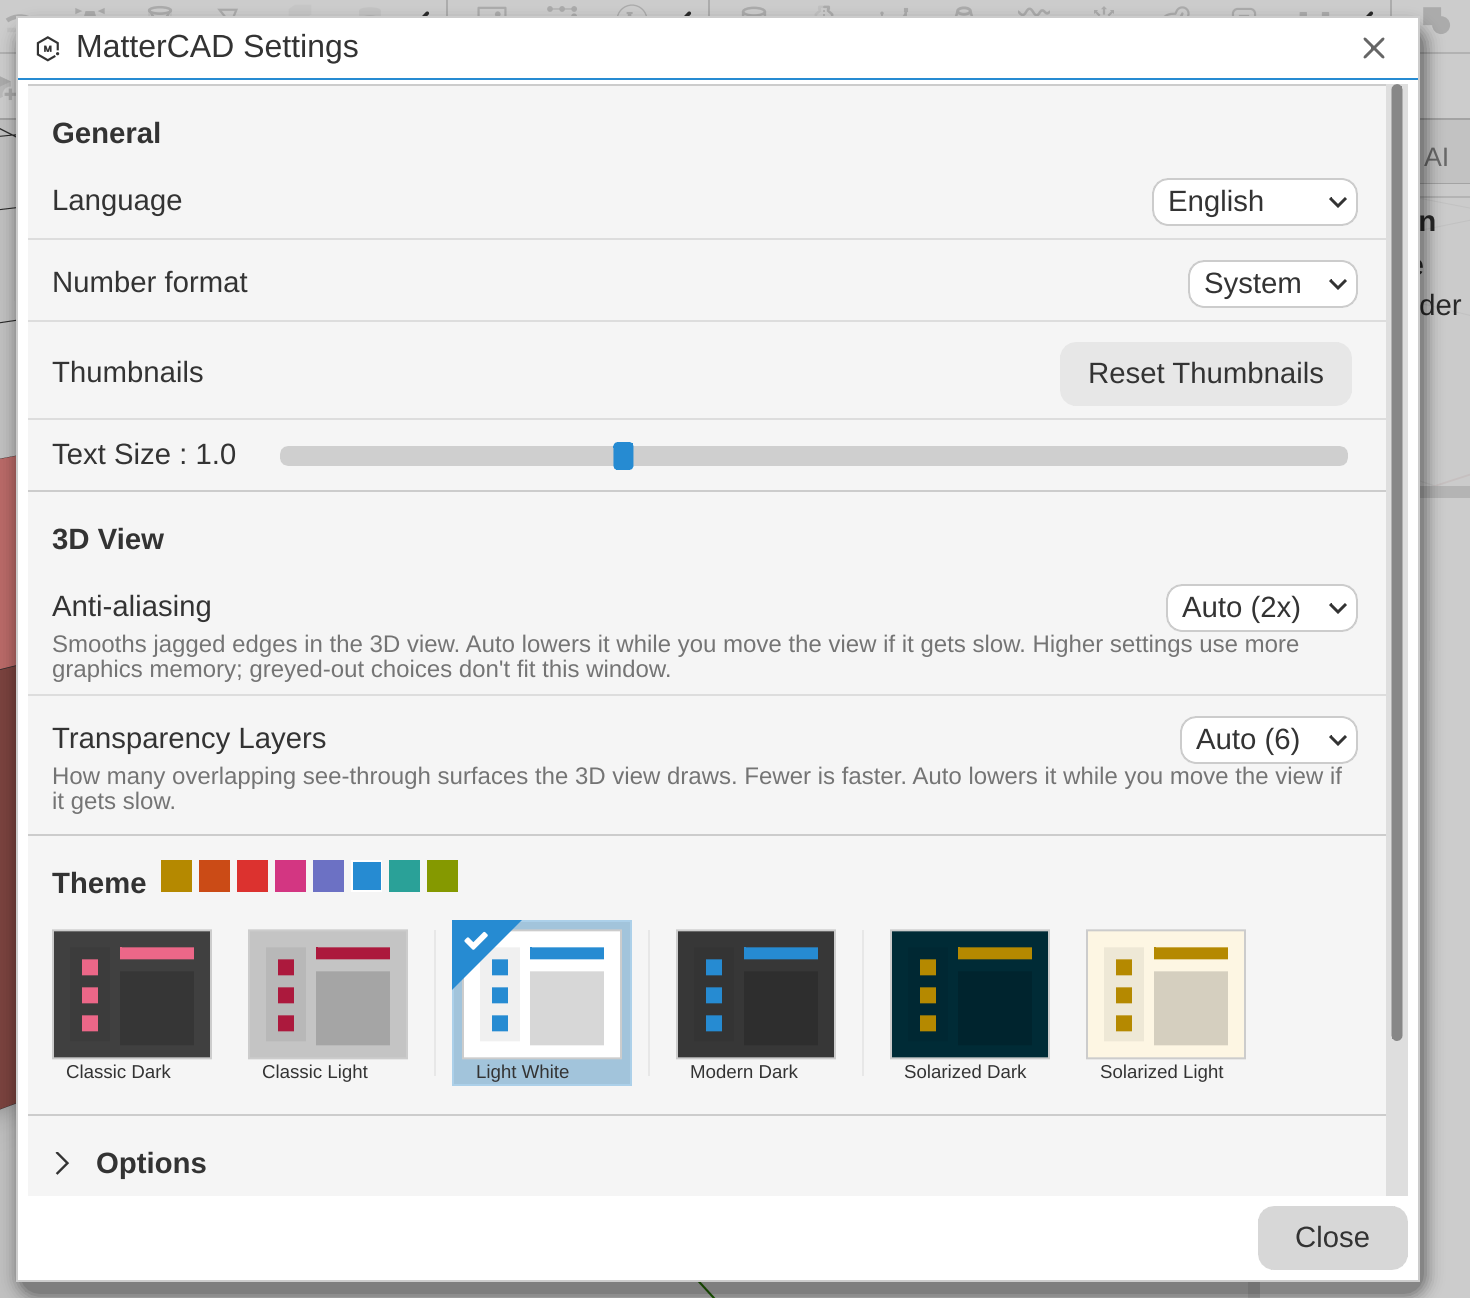
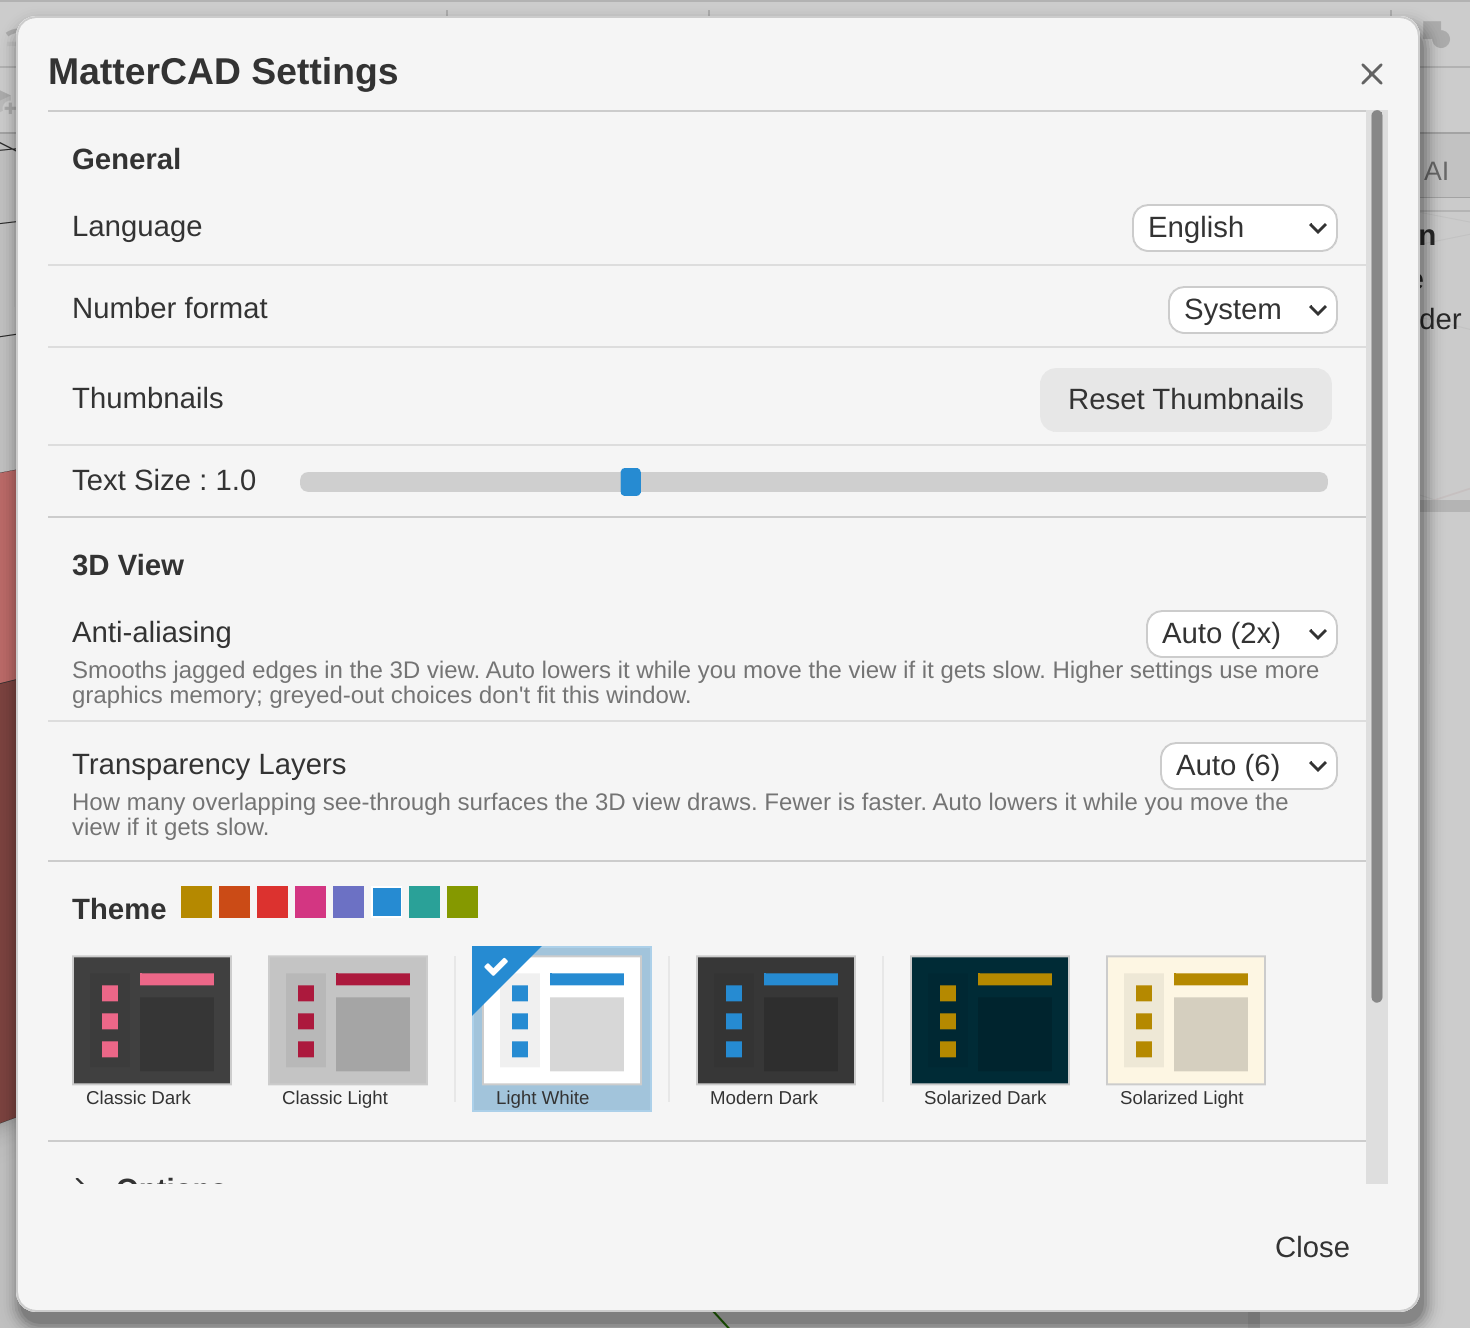
Help: the website's pictures show its editor as the website serves it, with no ☰ on the toolbar or rail, no Submit Feedback in the status bar and no Edit or Full Screen in the view; its Help opens the help pages in a new browser tab; Settings names Anti-aliasing and Transparency Layers under 3D View
The phone's title bar shows the ☰ MatterCAD button with its words while you edit. Submit Feedback's contact box is quoted as the window words it. The Add to Bed picture's alt names the Toolbar folder, and the Settings picture is remade with its 3D View section.

diff --git a/docs/Help/web/phone.md b/docs/Help/web/phone.md
@@ -10,17 +10,18 @@ keywords: mobile, iphone, android, smartphone, touch, small screen, phone layout
 On a phone, MatterCAD lays itself out to give the 3D view as much of the small screen as it can, whichever way up you hold it. You get the same layout whenever MatterCAD's area is narrower than 600 pixels or shorter than 480 pixels, for example in a browser window made small, and in MatterCAD on your computer if you make its window that small. Most tablets get the full layout either way up. The layout changes as you turn the phone or resize the window; your design, what you have selected and your undo history stay as they are.
 
 <!-- AUTO_IMAGE: type=shot id=web-phone-portrait -->
-![MatterCAD's editor on a phone held upright: the one-row toolbar (MatterCAD menu, Add, Undo, Redo, Save, Tools) at the top, the 3D view with the Cube selected, the selection bar, and the bottom sheet at half height on the Design tab](https://matterhackers.github.io/MatterCAD_Docs/assets/web-phone-portrait.png)
+![MatterCAD's editor on a phone held upright: the one-row toolbar (Add, Undo, Redo, Save, Tools) at the top, the 3D view with the Cube selected, the selection bar, and the bottom sheet at half height on the Design tab](https://matterhackers.github.io/MatterCAD_Docs/assets/web-phone-portrait.png)
 
 ## On the Design's Page
 
-On a phone, the title bar's buttons are icons only: the back arrow (to the library), the pencil (**Edit**), which turns into an eye (**View**) while you edit, the full screen icon (where your browser can fill the screen), and the download arrow (**Download**). Press the pencil to edit. The toolbar comes down from the top and the bottom sheet comes up from the bottom.
+On a phone, the title bar's buttons are icons only, apart from **☰ MatterCAD** (below): the back arrow (to the library), the pencil (**Edit**), which turns into an eye (**View**) while you edit, the full screen icon (where your browser can fill the screen), and the download arrow (**Download**). Press the pencil to edit. The toolbar comes down from the top and the bottom sheet comes up from the bottom.
+
+While you edit, the title bar also shows the **☰ MatterCAD** button, with its words, right after the eye. It opens the MatterCAD menu: **New Design**, **Interface Tour**, **Help** and **Settings** ([The MatterCAD Menu](mattercad-menu.md)). The toolbar has no ☰ of its own on the website.
 
 ## The Toolbar
 
 The toolbar keeps to one row across the top:
 
-- **☰** - The MatterCAD menu. On the website's design pages it is the **☰ MatterCAD** button in the title bar instead, after the eye: **New Design**, **Interface Tour**, **Help** and **Settings** ([The MatterCAD Menu](mattercad-menu.md)). MatterCAD on your computer has its MatterCAD menu in the row of tabs.
 - **Add** (the cube with a plus) - Opens the shapes, with your library at the end (see [Add](#add) below).
 - **Undo** and **Redo**.
 - **Save** - Saves the design ([Saving on the Web](saving.md)).
@@ -78,13 +79,13 @@ Tap a row to use it, or tap outside the menu to close it. The first time you tap
 
 Turn the phone sideways and the 3D view takes the whole height of the screen:
 
-- The toolbar becomes a rail down the left edge: ☰ (on the website), **Add**, **Undo**, **Redo**, **Save** and **Tools**, as icons only. When the rail is too short for all of them, **Save** makes room.
+- The toolbar becomes a rail down the left edge: **Add**, **Undo**, **Redo**, **Save** and **Tools**, as icons only. When the rail is too short for all of them, **Save** makes room.
 - The shapes from **Add** and the list from **Tools** open beside the rail.
 - While a part is selected, the selection bar is a column beside the rail.
 - The **Design**, **AI** and **Notes** panel is a drawer at the right edge. Tap the handle on that edge, or drag it in with your finger, to open it. Tap the handle again, or tap anywhere outside the drawer, to close it (with a keyboard, Esc closes it too).
 
 <!-- AUTO_IMAGE: type=shot id=web-phone-landscape -->
-![MatterCAD's editor on a phone held sideways: the rail of buttons (☰, Add, Undo, Redo, Save, Tools) down the left edge, the selection bar as a column beside it, the camera buttons at the top-right, and the drawer handle on the right edge](https://matterhackers.github.io/MatterCAD_Docs/assets/web-phone-landscape.png)
+![MatterCAD's editor on a phone held sideways: the rail of buttons (Add, Undo, Redo, Save, Tools) down the left edge, the selection bar as a column beside it, the camera buttons at the top-right, and the drawer handle on the right edge](https://matterhackers.github.io/MatterCAD_Docs/assets/web-phone-landscape.png)
 
 ## The Bottom Sheet
 

diff --git a/docs/Help/workspace/settings.md b/docs/Help/workspace/settings.md
@@ -13,12 +13,12 @@ To open it, click **☰ MatterCAD** › **Settings**. On a Mac you can also choo
 
 Every change takes effect when you make it; there is no Save button. Click **Close** when you are done. Some changes reload the window, which takes a moment and keeps your open designs.
 
-The page has five sections: **General**, **Theme**, **Options**, **Advanced** and **AI Providers**. **Options**, **Advanced** and **AI Providers** start closed: click a heading to open it. MatterCAD remembers which ones you left open.
+The page has six sections: **General**, **3D View**, **Theme**, **Options**, **Advanced** and **AI Providers**. **Options**, **Advanced** and **AI Providers** start closed: click a heading to open it. MatterCAD remembers which ones you left open.
 
 In the browser, Settings has no **AI Providers** section, and **Advanced** has no **Application Storage** or **Application Cache** rows.
 
 <!-- AUTO_IMAGE: type=shot id=workspace-settings-window -->
-![The MatterCAD Settings window with its General and Theme sections showing](https://matterhackers.github.io/MatterCAD_Docs/assets/workspace-settings-window.png)
+![The MatterCAD Settings window with its General, 3D View and Theme sections showing](https://matterhackers.github.io/MatterCAD_Docs/assets/workspace-settings-window.png)
 
 ## General
 
@@ -28,6 +28,13 @@ In the browser, Settings has no **AI Providers** section, and **Advanced** has n
 | **Number format** | How numbers are shown and typed: **System** (follow your computer's region setting), **1234.5** (a point before the decimals) or **1234,5** (a comma before the decimals). The window reloads |
 | **Thumbnails** | **Reset Thumbnails** deletes the small pictures the library shows for your designs and makes them again. MatterCAD asks first: click **Reset** to go ahead or **No** to stop. The library may be slower for a while as the pictures are remade |
 | **Text Size** | Makes everything in the window bigger or smaller, from 0.3 to 2.5 (1.0 is normal). The row's name shows the size, for example "Text Size : 1.2". Move the slider, then click **Apply** to use the new size (the window reloads). If you close Settings without clicking **Apply**, the new size is used the next time you start MatterCAD |
+
+## 3D View
+
+| Setting | What it does |
+|---------|--------------|
+| **Anti-aliasing** | Smooths jagged edges in the 3D view: **Auto** (the starting setting), **Off**, **2x**, **3x** or **4x**. **Auto** shows what it uses now, for example "Auto (2x)", and lowers it while you move the view if drawing gets slow. Higher settings use more graphics memory; a choice that doesn't fit the window is greyed out |
+| **Transparency Layers** | How many overlapping see-through surfaces the 3D view draws: **Auto** (the starting setting), **Off**, **4**, **6** or **8**. Fewer is faster. **Auto** shows what it uses now, for example "Auto (6)", and lowers it while you move the view if drawing gets slow |
 
 ## Theme
 
@@ -42,7 +49,6 @@ The window reloads after each change. You can also change the theme without open
 
 | Setting | What it does |
 |---------|--------------|
-| **Depth Peeling Layers** | How carefully see-through parts are drawn where they overlap: **Off**, **4**, **6** (the starting value) or **8**. More layers draw overlapping see-through parts more accurately but take more work from your graphics card. **Off** uses a quicker approximation. Open designs follow the change at once |
 | **Show Welcome Message** | When on (the starting setting), the welcome window opens each time MatterCAD starts. Ticking **Don't remind me again** in the welcome window turns this off. See [Updates and Recovery](updates-and-recovery.md#the-welcome-page-and-the-interface-tour) |
 | **Send Crash Reports** | When on, MatterCAD offers to send a report after it crashes, and shows you exactly what would be sent before anything goes. It turns on when you choose **Allow** in the one-time question "Help improve MatterCAD?" that MatterCAD asks when it starts, or when you turn it on here. Until you answer that question it shows off. The question says what a report leaves out: "Your computer's user name, your AI keys and your GitHub token are taken out; other text, such as file names, is sent as it is." A report also carries MatterCAD's recent debug log, with the same things taken out. Once you have turned it off, MatterCAD never asks or offers. Crash reports are sent from MatterCAD for Windows and Mac; MatterCAD for Linux doesn't send them yet, and keeps its crash reports on your computer. See [Updates and Recovery](updates-and-recovery.md#crash-reports) |
 

diff --git a/docs/Help/web/mattercad-menu.md b/docs/Help/web/mattercad-menu.md
@@ -37,19 +37,15 @@ You can also start a new design from the website's **Library** page: open a fold
 
 ## Help
 
-**Help** opens MatterCAD's help pages in a window over the editor. Your design stays as it is underneath.
-
-The first time you open it, the articles take a moment to arrive: the window shows "Loading help…" until they do. If they can't be loaded, it says "Help couldn't be loaded. Check your internet connection, then open Help again." Opening **Help** again tries once more. The **Mouse** and **Keys** pages, which list every mouse control and shortcut, are there either way, even without a connection.
-
-- On a wider screen the window opens at the right. You can move it, and close it with the close button in its title bar.
-- On a phone, or in a narrow window, it covers the whole screen. Close it with the close button in its title bar.
+**Help** opens MatterCAD's help pages on the website in a new browser tab, starting at the help's first page. The editor stays open in its own tab with your design as it is: switch back to that tab to keep working.
 
 ## Settings
 
 **Settings** opens a window with the settings that matter while you edit in a browser:
 
 - **Number format** (under **General**) - How numbers show and are typed: **System** (your computer's or phone's own way), **1234.5** (a point before the decimals) or **1234,5** (a comma before the decimals). The editor redraws every number in the new format at once.
-- **Depth Peeling Layers** (under **Options**) - How many layers of see-through parts the 3D view draws: **Off**, **4**, **6** (the starting setting) or **8**. Fewer layers draw faster, which can help on a slower phone.
+- **Anti-aliasing** (under **3D View**) - Smooths jagged edges in the 3D view: **Auto** (the starting setting), **Off**, **2x**, **3x** or **4x**. **Auto** shows what it uses now, for example "Auto (2x)", and lowers it while you move the view if drawing gets slow. Higher settings use more graphics memory; a choice that doesn't fit the window is greyed out.
+- **Transparency Layers** (under **3D View**) - How many overlapping see-through surfaces the 3D view draws: **Auto** (the starting setting), **Off**, **4**, **6** or **8**. Fewer is faster, which can help on a slower phone. **Auto** shows what it uses now, for example "Auto (6)", and lowers it while you move the view if drawing gets slow.
 
 The other settings MatterCAD has on your computer aren't in this window. The colors follow the theme you chose on the website, in the menu under your name in the website's header (or the theme button beside **Sign in** when you aren't signed in), and the camera, snapping and units are set with the camera controls in the 3D view ([Viewport Navigation](../getting-started/viewport-navigation.md)).
 

diff --git a/docs/Help/web/web-and-desktop.md b/docs/Help/web/web-and-desktop.md
@@ -19,12 +19,12 @@ The editor on the website is MatterCAD itself: the same shapes, operations, Prop
 ## The Window and Menus
 
 - Each design has its own page. There are no tabs, and no **Library** or **Help** tab.
-- The **☰ MatterCAD** button is in the page's title bar, shown while you edit. Its menu holds **New Design**, **Interface Tour**, **Help** and **Settings**. **Open System File**, **Open Recent**, **Check For Update**, **Community** and **About MatterCAD** are only in MatterCAD on your computer.
+- The **☰ MatterCAD** button is in the page's title bar, shown while you edit. Its menu holds **New Design**, **Interface Tour**, **Help** and **Settings**. **Open System File**, **Open Recent**, **Open Demo**, **Check For Update**, **Community** and **About MatterCAD** are only in MatterCAD on your computer.
 - **Submit Feedback** is the **Feedback** button in the website's header, not a button in the status bar ([Getting More Help](../get-support.md#feedback-on-the-website)).
 - There is no **Check For Update**: the website runs the version of MatterCAD it serves. Reload the page to get a newer version once the website has one.
-- **Settings** has only **Number format** and **Depth Peeling Layers**. The colors follow the theme you chose on the website, in the menu under your name in its header ([The MatterCAD Menu](mattercad-menu.md#settings)).
+- **Settings** has only **Number format**, **Anti-aliasing** and **Transparency Layers**. The colors follow the theme you chose on the website, in the menu under your name in its header ([The MatterCAD Menu](mattercad-menu.md#settings)).
 - The **Bed** menu has no **Reload**.
-- A selected part has no **Help** button and no **Help Docs** menu row. Open **Help** from the MatterCAD menu instead. The first time you open it, its articles take a moment to load ([Help](mattercad-menu.md#help)).
+- A selected part has no **Help** button and no **Help Docs** menu row. Open **Help** from the MatterCAD menu instead: it opens the help pages on the website in a new browser tab ([Help](mattercad-menu.md#help)).
 - There is no **Open With** in a part's right-click menu, and no menu item that shows a file in your computer's file manager.
 - **Save as Tool**, for node graphs, is only in MatterCAD on your computer.
 

diff --git a/docs/Help/workspace/menus-and-toolbar.md b/docs/Help/workspace/menus-and-toolbar.md
@@ -42,7 +42,7 @@ A design from your [Cloud Library](../library/cloud-library.md) that has been de
 On a Mac, the same items are also in the menu bar at the top of the screen, and **File** adds **Add System File to Bed**, which the ☰ MatterCAD menu leaves to **Add to Bed**, and **Save**, **Save As** and **Share...**, which it leaves to the toolbar. An item with a key shows it:
 
 - **MatterCAD** - **About MatterCAD**, **Settings** (⌘,), **Check For Update** and **Quit** (⌘Q).
-- **File** - **Add System File to Bed** (a file from your computer onto the bed of the design in front, as **Add to Bed**'s **System File** does), **Open System File** (⌘O), **Open Recent**, **Save** (⌘S), **Save As** (⇧⌘S) and **Share...**. **Save** and **Save As** work on the design in front, as the toolbar's do. **Share...** opens the Share dialog for the design in front; it is greyed out unless that design is saved in your Cloud Library. See [Sharing](../library/sharing.md).
+- **File** - **Add System File to Bed** (a file from your computer onto the bed of the design in front, as **Add to Bed**'s **System File** does), **Open System File** (⌘O), **Open Recent**, **Open Demo**, **Save** (⌘S), **Save As** (⇧⌘S) and **Share...**. **Save** and **Save As** work on the design in front, as the toolbar's do. **Share...** opens the Share dialog for the design in front; it is greyed out unless that design is saved in your Cloud Library. See [Sharing](../library/sharing.md).
 - **Help** - **Help** (F1), **Interface Tour**, **Submit Feedback...** and **Community**.
 
 The first time MatterCAD starts, these items stay greyed out until you accept the license agreement. **Quit** always works.

diff --git a/docs/Help/getting-started/index.md b/docs/Help/getting-started/index.md
@@ -16,7 +16,7 @@ On a Mac, press ⌘ (Command) wherever these pages say Ctrl.
 ## The Window
 
 - **Tabs** - Along the top. Each open design has its own tab; the **Store**, **Library** and **Help** have tabs too. The **+** button (**Create New Design**) opens a new design. See [Tabs, Search and the Status Bar](../workspace/tabs-and-search.md).
-- **☰ MatterCAD menu** - At the left end of the tabs: **Open System File**, **Open Recent**, **Help**, **Interface Tour**, **Submit Feedback...**, **Check For Update**, **Settings**, **Community** and **About MatterCAD**. On a Mac the same items are also in the menu bar at the top of the screen. See [Menus and Toolbar](../workspace/menus-and-toolbar.md).
+- **☰ MatterCAD menu** - At the left end of the tabs: **Open System File**, **Open Recent**, **Open Demo**, **Help**, **Interface Tour**, **Submit Feedback...**, **Check For Update**, **Settings**, **Community** and **About MatterCAD**. On a Mac the same items are also in the menu bar at the top of the screen. See [Menus and Toolbar](../workspace/menus-and-toolbar.md).
 - **Toolbar** - Across the top of the design:
   - **Add to Bed** - opens the library so you can drag parts and files onto the bed. To add a file from your computer, open **System File** at the top of the library.
   - **Save** - saves the design. The arrow beside it holds **Save As** and **Export**. The button lights up in the accent color while you have changes that are not saved.

diff --git a/docs/Help/get-support.md b/docs/Help/get-support.md
@@ -23,7 +23,7 @@ The window asks for:
 - **Title** - A short summary.
 - **Description** - What happened, and what you expected. Near the 4,000-character limit the window shows how many characters are left.
 - **Include with your report:** - Tick what goes with it: a **Screenshot of the 3D view**, **Your design** (the whole design, so we can reproduce the problem) and **Diagnostics** (MatterCAD's version, your system and graphics, your recent steps and the end of MatterCAD's log, with your computer's user name and your sign-in removed). Click **Show** to see the diagnostics before you send them.
-- **OK to contact me about this** - Tick it if we may write back to you. It starts unticked.
+- **OK to contact me about this (optional, we usually don't reply)** - Tick it if you don't mind us writing to you about your feedback. It starts unticked.
 
 Click **Send**. When it arrives, the window says "Thank you. Your feedback was sent." with a reference you can copy with **Copy Reference**. If it couldn't be sent, the window says so and offers **Retry**.
 

diff --git a/docs/Help/frequently-asked-questions.md b/docs/Help/frequently-asked-questions.md
@@ -18,7 +18,7 @@ keywords: faq, problems, troubleshooting, tiny part, huge part, reset settings, 
 ![The MatterCAD menu open from its button at the top left of the window, the pointer on its Settings row](https://matterhackers.github.io/MatterCAD_Docs/assets/faq-menu-settings.png)
 
 <!-- AUTO_IMAGE: type=shot id=workspace-settings-window -->
-![The MatterCAD Settings window with its General and Theme sections showing](https://matterhackers.github.io/MatterCAD_Docs/assets/workspace-settings-window.png)
+![The MatterCAD Settings window with its General, 3D View and Theme sections showing](https://matterhackers.github.io/MatterCAD_Docs/assets/workspace-settings-window.png)
 
 <!-- AUTO_IMAGE: type=shot id=faq-settings-advanced -->
 ![The MatterCAD Settings window scrolled down to its open Advanced section, the pointer on the Application Storage button showing its Open Folder tip, and the Close button below](https://matterhackers.github.io/MatterCAD_Docs/assets/faq-settings-advanced.png)

diff --git a/docs/Help/getting-started/creating-new-objects.md b/docs/Help/getting-started/creating-new-objects.md
@@ -10,7 +10,7 @@ keywords: blank design, add shape, start designing, first design, make something
 Most designs start from simple shapes. You add them, size them, place them, and then combine or reshape them with operations.
 
 <!-- AUTO_IMAGE: type=shot id=gs-add-to-bed-popup -->
-![The Add to Bed button and the library it opens over the bed, at its top level: System File, Computer, Included, My Tools, History, Cloud Library, Shared with Me and Purchased](https://matterhackers.github.io/MatterCAD_Docs/assets/gs-add-to-bed-popup.png)
+![The Add to Bed button and the library it opens over the bed, at its top level: System File, Computer, Included, My Tools, Toolbar, History, Cloud Library, Shared with Me and Purchased](https://matterhackers.github.io/MatterCAD_Docs/assets/gs-add-to-bed-popup.png)
 
 ## Start a New Design
 

diff --git a/docs/Help/web/index.md b/docs/Help/web/index.md
@@ -16,7 +16,7 @@ A design page works in three steps:
 3. **View** - Press **View** to go back to the preview.
 
 <!-- AUTO_IMAGE: type=shot id=web-design-page -->
-![A design page on the MatterCAD website: the design in its 3D preview, with Reset View and the camera buttons at the preview's top-left and the Edit button beside them](https://matterhackers.github.io/MatterCAD_Docs/assets/web-design-page.png)
+![A design's 3D preview on its page on the MatterCAD website, with Reset View and the camera buttons at the preview's top-left](https://matterhackers.github.io/MatterCAD_Docs/assets/web-design-page.png)
 
 ## What You Need
 
